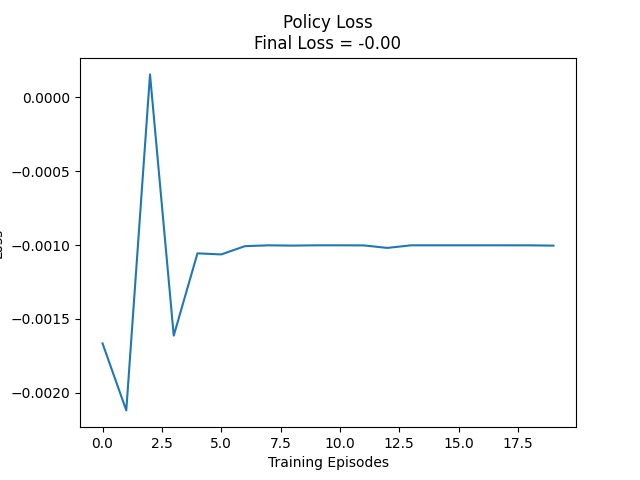
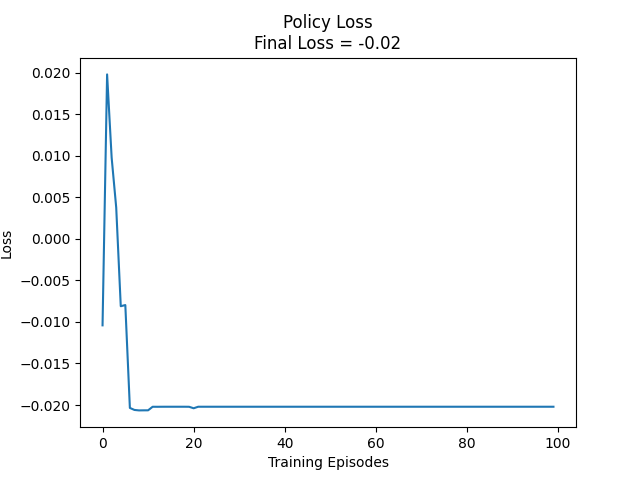
enables lagged synchronization of policy model

diff --git a/Utils/train.py b/Utils/train.py
@@ -121,7 +121,7 @@ class PolicyIteration_Solver(Solver):
         return output
 
 class PPO_Solver(Solver):
-    def __init__(self, markov_decision_process = None, value_model_name = "discretized_feedforward", value_hidden_dim_lst = [10, 10], value_activation_lst = ["relu", "relu"], value_batch_norm = False, value_lr = 1e-2, value_decay = 0.1, value_scheduler_step = 10000, value_solver = "Adam", value_retrain = False, policy_model_name = "discretized_feedforward", policy_hidden_dim_lst = [10, 10], policy_activation_lst = ["relu", "relu"], policy_batch_norm = False, policy_lr = 1e-2, policy_decay = 0.1, policy_scheduler_step = 10000, policy_solver = "Adam", policy_retrain = False, descriptor = "PPO", dir = ".", device = "cpu", num_itr = 100, num_episodes = 100, ckpt_freq = 100, benchmarking_policy = "uniform"):
+    def __init__(self, markov_decision_process = None, value_model_name = "discretized_feedforward", value_hidden_dim_lst = [10, 10], value_activation_lst = ["relu", "relu"], value_batch_norm = False, value_lr = 1e-2, value_decay = 0.1, value_scheduler_step = 10000, value_solver = "Adam", value_retrain = False, policy_model_name = "discretized_feedforward", policy_hidden_dim_lst = [10, 10], policy_activation_lst = ["relu", "relu"], policy_batch_norm = False, policy_lr = 1e-2, policy_decay = 0.1, policy_scheduler_step = 10000, policy_solver = "Adam", policy_retrain = False, descriptor = "PPO", dir = ".", device = "cpu", num_itr = 100, num_episodes = 100, ckpt_freq = 100, benchmarking_policy = "uniform", eps = 0.2, policy_syncing_freq = 1):
         super().__init__(type = "sequential", markov_decision_process = markov_decision_process)
         ## Store some commonly used variables
         self.value_input_dim = len(self.markov_decision_process.state_counts)
@@ -133,6 +133,8 @@ class PPO_Solver(Solver):
         self.num_episodes = num_episodes
         self.ckpt_freq = ckpt_freq
         self.benchmarking_policy = benchmarking_policy
+        self.eps = eps
+        self.policy_syncing_freq = policy_syncing_freq
         ## Construct models
         self.value_model_factory = neural.ModelFactory(value_model_name, self.value_input_dim, value_hidden_dim_lst, value_activation_lst, self.value_output_dim, value_batch_norm, value_lr, value_decay, value_scheduler_step, value_solver, value_retrain, self.discretized_len, descriptor + "_value", dir, device)
         self.policy_model_factory = neural.ModelFactory(policy_model_name, self.policy_input_dim, policy_hidden_dim_lst, policy_activation_lst, self.policy_output_dim, policy_batch_norm, policy_lr, policy_decay, policy_scheduler_step, policy_solver, policy_retrain, self.discretized_len, descriptor + "_policy", dir, device, prob = True)
@@ -243,11 +245,12 @@ class PPO_Solver(Solver):
                     tup = state_action_advantage_lst_episodes[day][i]
                     curr_state_counts, action_id, next_state_counts, t, _ = tup
                     advantage = self.get_advantange(curr_state_counts, next_state_counts, action_id, t)
-                    ratio, ratio_clipped = self.get_ratio(curr_state_counts, action_id, t, clipped = True, eps = 0.4)
+                    ratio, ratio_clipped = self.get_ratio(curr_state_counts, action_id, t, clipped = True, eps = self.eps)
                     loss_curr = -torch.min(ratio * advantage, ratio_clipped * advantage)
                     total_policy_loss += loss_curr[0]
                 total_policy_loss /= self.num_episodes
-            self.benchmark_policy_model = copy.deepcopy(self.policy_model)
+            if itr % self.policy_syncing_freq == 0:
+                self.benchmark_policy_model = copy.deepcopy(self.policy_model)
             total_policy_loss.backward()
             self.policy_optimizer.step()
             self.policy_scheduler.step()
@@ -266,9 +269,10 @@ class PPO_Solver(Solver):
                 _, _, payoff_lst, _ = self.evaluate(return_action = True, seed = 0)
                 payoff_val = float(payoff_lst[-1].data)
                 payoff_arr.append(payoff_val)
+        self.benchmark_policy_model = copy.deepcopy(self.policy_model)
         # Save final model
 #        self.value_model_factory.update_model(self.value_model, update_ts = False)
-#        self.policy_model_factory.update_model(self.policy_model, update_ts = False)
+#        self.policy_model_factory.update_model(self.benchmark_policy_model, update_ts = False)
 #        self.value_model_factory.save_to_file(include_ts = True)
 #        self.policy_model_factory.save_to_file(include_ts = True)
         return value_loss_arr, policy_loss_arr, payoff_arr
@@ -313,7 +317,7 @@ class PPO_Solver(Solver):
     def evaluate(self, seed = None, train = False, return_data = False, return_action = False, explore = False):
         if not train:
             self.value_model.eval()
-            self.policy_model.eval()
+            self.benchmark_policy_model.eval()
         return_data = return_data and train
         if seed is not None:
             torch.manual_seed(seed)
@@ -330,7 +334,7 @@ class PPO_Solver(Solver):
             for car_idx in range(num_available_cars):
                 ## Perform state transitions
                 curr_state_counts = self.markov_decision_process.state_counts.clone()
-                action_id_prob = self.policy_predict(curr_state_counts, t, prob = True).detach().numpy()
+                action_id_prob = self.policy_predict(curr_state_counts, t, prob = True, use_benchmark = True).detach().numpy()
 #                if not train:
 #                    print(t, action_id_prob)
                 if train:
